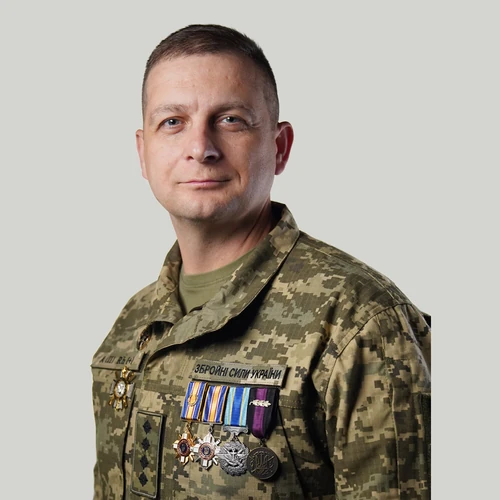
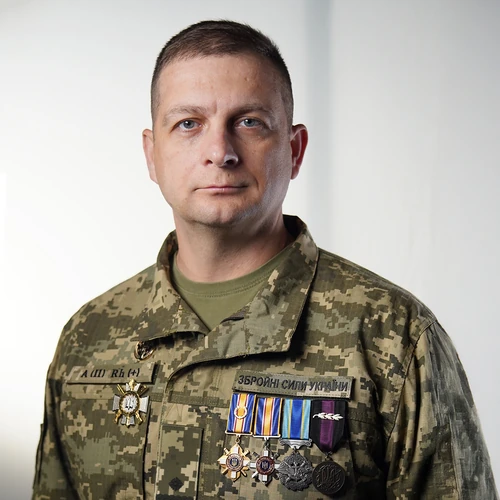
Нова анфас-фотка Андросюка, hover-навігація слайдерів на десктопі, нова цитата «Духовний батько»
- images/battalion-2bbs-cmd-androsiuk.webp: замінено на нову, справжню анфас-світлину з нагородами
- .leisure-nav на десктопі (min-width:641px): прибрано темне коло, стрілки з'являються лише при наведенні на галерею; на мобільному лишилось без змін (завжди видимі, з колом)
- Думка та слово: додано нову цитату «Духовний батько» (з Пастирського послання 1899 р.) першою в списку, над «Війна»

Claude-Session: https://claude.ai/code/session_01HD8wAxj5LFp6M43rrvstzX

diff --git a/index.html b/index.html
@@ -228,6 +228,12 @@ button.subnav-item:hover{color:var(--ink);background:var(--paper);}
 .leisure-nav svg{width:18px;height:18px;stroke:currentColor;}
 .leisure-nav.prev{left:10px;}
 .leisure-nav.next{right:10px;}
+@media (min-width:641px){
+  .leisure-nav{background:transparent;opacity:0;transition:opacity .2s;}
+  .leisure-nav:hover{background:transparent;}
+  .leisure-nav svg{filter:drop-shadow(0 1px 3px rgba(0,0,0,.65));}
+  .leisure-gallery:hover .leisure-nav{opacity:1;}
+}
 .leisure-dots{display:flex;justify-content:center;gap:7px;margin:.2rem 0 1rem;}
 .leisure-dots .dot{width:6px;height:6px;border-radius:50%;background:var(--border-strong);border:none;padding:0;cursor:pointer;transition:background .2s,transform .2s;}
 .leisure-dots .dot.active{background:var(--brass);transform:scale(1.3);}
@@ -876,6 +882,16 @@ button.read-more-btn.expanded svg{transform:rotate(180deg);}
 </section>
 
 
+<section class="card" id="q-dukhovnyi-batko">
+  <h2 class="card-title card-title-solo">Духовний батько</h2>
+  <div class="card-body">
+    <div class="pull-quote">«Я не лікар, не хлібороб, ані політик, я – отець. А вітцеві нічого не є чужим, що синів, дітей його обходить»</div>
+    <div class="quote-attribution">митрополит Андрей Шептицький, Пастирське послання до вірних «Перше слово Пастиря», Станиславів, 1 серпня (20 липня) 1899 р.</div>
+    <div class="collapsible-body" id="collapse-53"><p>Це слова новопризначеного владики, якому щойно тридцять п’ять років. Він міг обмежити своє служіння церковними справами: службами, таїнствами, проповідями. Натомість за майже сорок чотири роки його духовної праці не залишилось жодної сфери життя народу, якою б він не перейнявся.</p><p>Для Андрея Шептицького бути вітцем означало дбати не лише про духовне життя людини. Його турбувало, чи має вона змогу здобути освіту, опанувати фах, заробляти на життя, розвивати свої здібності й жити з гідністю. Тому його діяльність виходила далеко за межі церковного служіння.</p><p>Він підтримував українських митців, заснував Національний музей у Львові. Активно відкривав школи й бурси для дітей бідних селян, зокрема Народну школу для найбідніших при соборі Святого Юра, і віддавав власні землі під навчальні заклади. Бо для нього важило не лише те, у що людина вірить, а й те, що вона вміє робити, як заробляє на життя і який внесок робить у спільне добро.</p><p>Владика Андрей проявляв щирий інтерес до господарництва. Шептицький розумів, що без власної землі, крамниці й каси людина лишається залежною. Він закликав: «Лучіться разом, заводіть по ваших селах крамниці християнські, шпихлярі громадські і всякі інші пожиточні установи». Сам ставав співзасновником кооперативів і земельного банку, вкладав гроші в нерухомість і господарства за кордоном, а прибуток повертав в Україну. Навіть ченцям-студитам ставив умову: хочете підтримки з митрополичого фонду — відкрийте при монастирі школу або майстерню. Молитва й ремесло в нього йдуть поруч, бо чесна праця за покликанням є такою ж цінною, як і Слово Боже, промовлене в церкві.</p><p>Так само він розумів значення української мови, культури й національної свідомості. Підтримував школи, книжки, мистецтво та інституції, які допомагали українцям розвиватися як окремому народові. А коли постало питання української державності, виступав за право народу самому визначати своє майбутнє.</p><p>Коли справа доходить до захисту рідної землі, отець так само не лишався осторонь. У серпні 1914 року, коли у Львові постає легіон Українських Січових Стрільців, саме Шептицький благословляє перших добровольців.</p><p>Музей, школа, кооператив, майстерня, благословення вояків — на перший погляд, це різні світи. Але Шептицький не ділив справи на ті, що стосуються його покликання, і ті, що, нібито, виходять за його межі. Він розумів: духовність не існує окремо від повсякденного життя, а турбота про людину не закінчується після молитви.</p><p>За різними напрямами його діяльності стояло одне розуміння служіння: бачити потреби людей і шукати способи допомогти. Не відвертатися від проблем лише тому, що вони належать до іншої сфери, і не вважати чужою справу, від якої залежить добробут народу.</p><p>У словах Шептицького немає вимоги, щоб кожен займався всім. Проте є нагадування про відповідальність — розуміти, що відбувається навколо, дбати про спільне добро й не залишатися байдужим до того, від чого залежить майбутнє свого народу та держави.</p></div><button class="read-more-btn" data-target="collapse-53"><span class="btn-label">Читати далі</span><svg viewBox="0 0 24 24" fill="none" stroke="currentColor" stroke-width="1.6" stroke-linecap="round" stroke-linejoin="round" aria-hidden="true"><polyline points="6 9 12 15 18 9"/></svg></button>
+  </div>
+</section>
+
+
 <section class="card" id="q-richnytsia">
   <h2 class="card-title card-title-solo">Війна</h2>
   <div class="card-body">
@@ -1334,7 +1350,7 @@ button.read-more-btn.expanded svg{transform:rotate(180deg);}
   });
 })();
 (function(){
-  var subnavData = {"tab-commander": "<button class=\"subnav-item\" data-target=\"foreword\"><span>Відтепер ти серед своїх</span></button>", "tab-brigade": "<button class=\"subnav-item\" data-target=\"symbol-shevrons\"><span>Символіка</span></button><button class=\"subnav-item\" data-target=\"commander-info\"><span>Командир</span></button><button class=\"subnav-item\" data-target=\"path-command\"><span>Командування</span></button><button class=\"subnav-item\" data-target=\"path-structure\"><span>Структура бригади</span></button><button class=\"subnav-item\" data-target=\"path-timeline\"><span>Бойовий шлях</span></button><button class=\"subnav-item\" data-target=\"path-awards\"><span>Нагороди</span></button>", "tab-power": "<button class=\"subnav-item\" data-target=\"identity-intro\"><span>Тяглість, що стає силою</span></button><button class=\"subnav-item\" data-target=\"tradition\"><span>Та сама земля, ті самі люди, та сама мета</span></button><button class=\"subnav-item\" data-target=\"oath\"><span>Клятва</span></button><button class=\"subnav-item\" data-target=\"faith\"><span>Віра і служіння</span></button><button class=\"subnav-item\" data-target=\"prayer\"><span>Молитва</span></button><button class=\"subnav-item\" data-target=\"values\"><span>Вільні люди, які обрали свободу</span></button><button class=\"subnav-item\" data-target=\"code\"><span>Кодекс честі</span></button>", "tab-heroes": "<button class=\"subnav-item\" data-target=\"hero2\"><span>Юрій Жуковець</span></button><button class=\"subnav-item\" data-target=\"hero1\"><span>Любомир Мікало</span></button><button class=\"subnav-item\" data-target=\"hero6\"><span>Сергій Артемюк</span></button><button class=\"subnav-item\" data-target=\"hero10\"><span>Петро Кушик</span></button><button class=\"subnav-item\" data-target=\"hero7\"><span>Василь Гарасим</span></button><button class=\"subnav-item\" data-target=\"hero5\"><span>Юрій Савчук</span></button><button class=\"subnav-item\" data-target=\"hero8\"><span>Ярослав Гафінов</span></button><button class=\"subnav-item\" data-target=\"hero9\"><span>Валентин Зінчук</span></button><button class=\"subnav-item\" data-target=\"hero4\"><span>Олег Муц</span></button><button class=\"subnav-item\" data-target=\"hero11\"><span>Андрій Собчишин</span></button>", "tab-quotes": "<button class=\"subnav-item\" data-target=\"quotes-intro\"><span>Думка та слово</span></button><button class=\"subnav-item\" data-target=\"q-richnytsia\"><span>Війна</span></button><button class=\"subnav-item\" data-target=\"q-liudska-dusha\"><span>Людська душа</span></button><button class=\"subnav-item\" data-target=\"q-lyubov-do-ukrainy\"><span>Любов до України</span></button><button class=\"subnav-item\" data-target=\"q-moskvofilstvo\"><span>Москвофільство</span></button><button class=\"subnav-item\" data-target=\"q-vdiachnist\"><span>Вдячність</span></button><button class=\"subnav-item\" data-target=\"q-vyhovannia\"><span>Виховання героїв</span></button><button class=\"subnav-item\" data-target=\"q-gotovnist\"><span>Готовність</span></button><button class=\"subnav-item\" data-target=\"q-zhertva\"><span>Жертва</span></button><button class=\"subnav-item\" data-target=\"q-tryvalist\"><span>Витривалість</span></button><button class=\"subnav-item\" data-target=\"q-dukhovni-vpravy\"><span>Духовні вправи</span></button><button class=\"subnav-item\" data-target=\"q-dusha-narodu\"><span>Душа народу</span></button><button class=\"subnav-item\" data-target=\"q-bozha-volya\"><span>Божа воля</span></button><button class=\"subnav-item\" data-target=\"q-apostoly\"><span>Апостоли</span></button><button class=\"subnav-item\" data-target=\"q-bezbozhnist\"><span>Безбожність</span></button><button class=\"subnav-item\" data-target=\"q-oshchadnist\"><span>Ощадність</span></button>", "tab-leisure": "<button class=\"subnav-item\" data-target=\"leisure-football\"><span>Футбол</span></button><button class=\"subnav-item\" data-target=\"leisure-shooting\"><span>Стрілецько-штурмовий турнір</span></button><button class=\"subnav-item\" data-target=\"leisure-culture\"><span>Культурний десант</span></button><button class=\"subnav-item\" data-target=\"leisure-volleyball\"><span>Волейбол</span></button><button class=\"subnav-item\" data-target=\"leisure-proyav\"><span>Фотовиставка «Прояв»</span></button><button class=\"subnav-item\" data-target=\"leisure-camps\"><span>Літні дитячі табори</span></button><button class=\"subnav-item\" data-target=\"leisure-bukovel\"><span>Відпочинок у Буковелі</span></button>", "tab-sheptytsky": "<button class=\"subnav-item\" data-target=\"shept-intro\"><span>Митрополит Андрей Шептицький</span></button><button class=\"subnav-item\" data-target=\"shept-origins\"><span>Походження і вибір життєвого шляху</span></button><button class=\"subnav-item\" data-target=\"shept-service\"><span>Служіння українському народові</span></button><button class=\"subnav-item\" data-target=\"shept-economy\"><span>Економічна самостійність і сила громади</span></button><button class=\"subnav-item\" data-target=\"shept-exile\"><span>Перша світова війна і заслання</span></button><button class=\"subnav-item\" data-target=\"shept-wwii\"><span>Позиція під час Другої світової війни</span></button><button class=\"subnav-item\" data-target=\"shept-last-years\"><span>Останні роки життя</span></button><button class=\"subnav-item\" data-target=\"shept-legacy\"><span>Визнання і спадщина</span></button><button class=\"subnav-item\" data-target=\"shept-video-short\"><span>Коротко про митрополита</span></button><button class=\"subnav-item\" data-target=\"shept-film\"><span>Документальний фільм</span></button>"};
+  var subnavData = {"tab-commander": "<button class=\"subnav-item\" data-target=\"foreword\"><span>Відтепер ти серед своїх</span></button>", "tab-brigade": "<button class=\"subnav-item\" data-target=\"symbol-shevrons\"><span>Символіка</span></button><button class=\"subnav-item\" data-target=\"commander-info\"><span>Командир</span></button><button class=\"subnav-item\" data-target=\"path-command\"><span>Командування</span></button><button class=\"subnav-item\" data-target=\"path-structure\"><span>Структура бригади</span></button><button class=\"subnav-item\" data-target=\"path-timeline\"><span>Бойовий шлях</span></button><button class=\"subnav-item\" data-target=\"path-awards\"><span>Нагороди</span></button>", "tab-power": "<button class=\"subnav-item\" data-target=\"identity-intro\"><span>Тяглість, що стає силою</span></button><button class=\"subnav-item\" data-target=\"tradition\"><span>Та сама земля, ті самі люди, та сама мета</span></button><button class=\"subnav-item\" data-target=\"oath\"><span>Клятва</span></button><button class=\"subnav-item\" data-target=\"faith\"><span>Віра і служіння</span></button><button class=\"subnav-item\" data-target=\"prayer\"><span>Молитва</span></button><button class=\"subnav-item\" data-target=\"values\"><span>Вільні люди, які обрали свободу</span></button><button class=\"subnav-item\" data-target=\"code\"><span>Кодекс честі</span></button>", "tab-heroes": "<button class=\"subnav-item\" data-target=\"hero2\"><span>Юрій Жуковець</span></button><button class=\"subnav-item\" data-target=\"hero1\"><span>Любомир Мікало</span></button><button class=\"subnav-item\" data-target=\"hero6\"><span>Сергій Артемюк</span></button><button class=\"subnav-item\" data-target=\"hero10\"><span>Петро Кушик</span></button><button class=\"subnav-item\" data-target=\"hero7\"><span>Василь Гарасим</span></button><button class=\"subnav-item\" data-target=\"hero5\"><span>Юрій Савчук</span></button><button class=\"subnav-item\" data-target=\"hero8\"><span>Ярослав Гафінов</span></button><button class=\"subnav-item\" data-target=\"hero9\"><span>Валентин Зінчук</span></button><button class=\"subnav-item\" data-target=\"hero4\"><span>Олег Муц</span></button><button class=\"subnav-item\" data-target=\"hero11\"><span>Андрій Собчишин</span></button>", "tab-quotes": "<button class=\"subnav-item\" data-target=\"quotes-intro\"><span>Думка та слово</span></button><button class=\"subnav-item\" data-target=\"q-dukhovnyi-batko\"><span>Духовний батько</span></button><button class=\"subnav-item\" data-target=\"q-richnytsia\"><span>Війна</span></button><button class=\"subnav-item\" data-target=\"q-liudska-dusha\"><span>Людська душа</span></button><button class=\"subnav-item\" data-target=\"q-lyubov-do-ukrainy\"><span>Любов до України</span></button><button class=\"subnav-item\" data-target=\"q-moskvofilstvo\"><span>Москвофільство</span></button><button class=\"subnav-item\" data-target=\"q-vdiachnist\"><span>Вдячність</span></button><button class=\"subnav-item\" data-target=\"q-vyhovannia\"><span>Виховання героїв</span></button><button class=\"subnav-item\" data-target=\"q-gotovnist\"><span>Готовність</span></button><button class=\"subnav-item\" data-target=\"q-zhertva\"><span>Жертва</span></button><button class=\"subnav-item\" data-target=\"q-tryvalist\"><span>Витривалість</span></button><button class=\"subnav-item\" data-target=\"q-dukhovni-vpravy\"><span>Духовні вправи</span></button><button class=\"subnav-item\" data-target=\"q-dusha-narodu\"><span>Душа народу</span></button><button class=\"subnav-item\" data-target=\"q-bozha-volya\"><span>Божа воля</span></button><button class=\"subnav-item\" data-target=\"q-apostoly\"><span>Апостоли</span></button><button class=\"subnav-item\" data-target=\"q-bezbozhnist\"><span>Безбожність</span></button><button class=\"subnav-item\" data-target=\"q-oshchadnist\"><span>Ощадність</span></button>", "tab-leisure": "<button class=\"subnav-item\" data-target=\"leisure-football\"><span>Футбол</span></button><button class=\"subnav-item\" data-target=\"leisure-shooting\"><span>Стрілецько-штурмовий турнір</span></button><button class=\"subnav-item\" data-target=\"leisure-culture\"><span>Культурний десант</span></button><button class=\"subnav-item\" data-target=\"leisure-volleyball\"><span>Волейбол</span></button><button class=\"subnav-item\" data-target=\"leisure-proyav\"><span>Фотовиставка «Прояв»</span></button><button class=\"subnav-item\" data-target=\"leisure-camps\"><span>Літні дитячі табори</span></button><button class=\"subnav-item\" data-target=\"leisure-bukovel\"><span>Відпочинок у Буковелі</span></button>", "tab-sheptytsky": "<button class=\"subnav-item\" data-target=\"shept-intro\"><span>Митрополит Андрей Шептицький</span></button><button class=\"subnav-item\" data-target=\"shept-origins\"><span>Походження і вибір життєвого шляху</span></button><button class=\"subnav-item\" data-target=\"shept-service\"><span>Служіння українському народові</span></button><button class=\"subnav-item\" data-target=\"shept-economy\"><span>Економічна самостійність і сила громади</span></button><button class=\"subnav-item\" data-target=\"shept-exile\"><span>Перша світова війна і заслання</span></button><button class=\"subnav-item\" data-target=\"shept-wwii\"><span>Позиція під час Другої світової війни</span></button><button class=\"subnav-item\" data-target=\"shept-last-years\"><span>Останні роки життя</span></button><button class=\"subnav-item\" data-target=\"shept-legacy\"><span>Визнання і спадщина</span></button><button class=\"subnav-item\" data-target=\"shept-video-short\"><span>Коротко про митрополита</span></button><button class=\"subnav-item\" data-target=\"shept-film\"><span>Документальний фільм</span></button>"};
   var battalionSubnavData = {"bgroup-2bbs": "<button class=\"subnav-item\" data-target=\"bat-2bbs-founding\"><span>Заснування батальйону</span></button><button class=\"subnav-item\" data-target=\"bat-2bbs-path\"><span>Бойовий шлях</span></button><button class=\"subnav-item\" data-target=\"bat-2bbs-awards\"><span>Нагороди</span></button><button class=\"subnav-item\" data-target=\"bat-2bbs-results\"><span>Результативність</span></button><button class=\"subnav-item\" data-target=\"bat-2bbs-commanders\"><span>Командири батальйону</span></button><button class=\"subnav-item\" data-target=\"bat-2bbs-symbols\"><span>Символіка та традиції</span></button><button class=\"subnav-item\" data-target=\"bat-2bbs-staff\"><span>Управління батальйону</span></button>"};
   var tabItems = Array.prototype.slice.call(document.querySelectorAll('.tab-item'));
   var panels = Array.prototype.slice.call(document.querySelectorAll('.tab-panel'));
